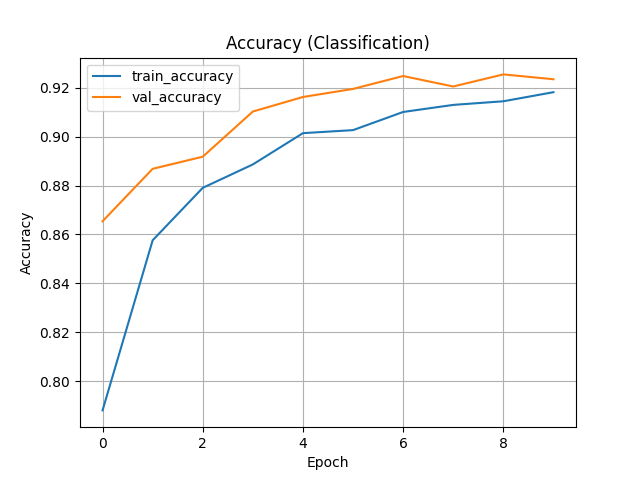
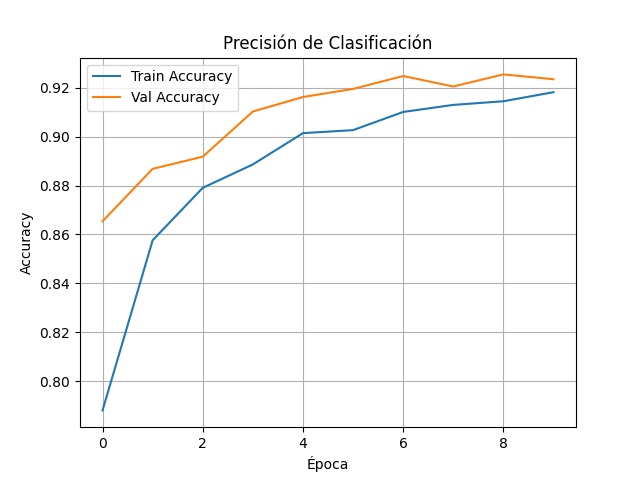
se actualiza graficar resultados

Changed region(s): [[0.1875, 0.0625, 0.6875, 0.2188], [0.4688, 0.9375, 0.5625, 1.0]]

diff --git a/graficarResultados.py b/graficarResultados.py
@@ -1,38 +1,113 @@
 import pandas as pd
 import matplotlib.pyplot as plt
 
-# Leer CSV generado por CSVLogger
+# Leer el CSV
 log_df = pd.read_csv('training_log.csv')
 
-# Graficar precisión de clasificación
+# Convertir timestamps a datetime
+log_df['timestamp'] = pd.to_datetime(log_df['timestamp'])
+
+# Calcular duración por época en segundos
+log_df['epoch_time_sec'] = log_df['timestamp'].diff().dt.total_seconds()
+log_df['epoch_time_sec'].fillna(0, inplace=True)
+
+# ========== MÉTRICAS DEL MODELO ==========
+
+# Accuracy clasificación
 plt.figure()
-plt.plot(log_df['classification_accuracy'], label='train_accuracy')
-plt.plot(log_df['val_classification_accuracy'], label='val_accuracy')
-plt.title('Accuracy (Classification)')
-plt.xlabel('Epoch')
+plt.plot(log_df['classification_accuracy'], label='Train Accuracy')
+plt.plot(log_df['val_classification_accuracy'], label='Val Accuracy')
+plt.title('Precisión de Clasificación')
+plt.xlabel('Época')
 plt.ylabel('Accuracy')
 plt.legend()
 plt.grid(True)
 plt.savefig('accuracy_plot.png')
 
-# Graficar pérdida total
+# Pérdida total
 plt.figure()
-plt.plot(log_df['loss'], label='train_loss')
-plt.plot(log_df['val_loss'], label='val_loss')
-plt.title('Loss (Total)')
-plt.xlabel('Epoch')
+plt.plot(log_df['loss'], label='Train Loss')
+plt.plot(log_df['val_loss'], label='Val Loss')
+plt.title('Pérdida Total')
+plt.xlabel('Época')
 plt.ylabel('Loss')
 plt.legend()
 plt.grid(True)
 plt.savefig('loss_plot.png')
 
-# Graficar pérdida de segmentación
+# Pérdida de segmentación
 plt.figure()
-plt.plot(log_df['segmentation_loss'], label='train_seg_loss')
-plt.plot(log_df['val_segmentation_loss'], label='val_seg_loss')
-plt.title('Loss (Segmentation)')
-plt.xlabel('Epoch')
+plt.plot(log_df['segmentation_loss'], label='Train Segmentation Loss')
+plt.plot(log_df['val_segmentation_loss'], label='Val Segmentation Loss')
+plt.title('Pérdida de Segmentación')
+plt.xlabel('Época')
 plt.ylabel('Loss')
 plt.legend()
 plt.grid(True)
 plt.savefig('segmentation_loss_plot.png')
+
+# ========== MÉTRICAS DEL SISTEMA ==========
+
+# CPU
+plt.figure()
+plt.plot(log_df['cpu_percent'], label='CPU (%)')
+plt.title('Uso de CPU durante el entrenamiento')
+plt.xlabel('Época')
+plt.ylabel('CPU %')
+plt.legend()
+plt.grid(True)
+plt.savefig('cpu_usage.png')
+
+# RAM
+plt.figure()
+plt.plot(log_df['ram_percent'], label='RAM (%)', color='orange')
+plt.title('Uso de RAM durante el entrenamiento')
+plt.xlabel('Época')
+plt.ylabel('RAM %')
+plt.legend()
+plt.grid(True)
+plt.savefig('ram_usage.png')
+
+# GPU
+plt.figure()
+plt.plot(log_df['gpu_percent'], label='GPU (%)', color='green')
+plt.title('Uso de GPU durante el entrenamiento')
+plt.xlabel('Época')
+plt.ylabel('GPU %')
+plt.legend()
+plt.grid(True)
+plt.savefig('gpu_usage.png')
+
+# Memoria de GPU
+plt.figure()
+plt.plot(log_df['gpu_memory_percent'], label='GPU Memory (%)', color='red')
+plt.title('Uso de Memoria de GPU durante el entrenamiento')
+plt.xlabel('Época')
+plt.ylabel('GPU Memory %')
+plt.legend()
+plt.grid(True)
+plt.savefig('gpu_memory_usage.png')
+
+# Tiempo por época 
+log_df['epoch_time_min'] = log_df['epoch_time_sec'] / 60
+
+plt.figure()
+plt.plot(log_df['epoch_time_min'], label='Duración por época (min)', marker='o')
+plt.title('Tiempo de procesamiento por época')
+plt.xlabel('Época')
+plt.ylabel('Minutos')
+plt.legend()
+plt.grid(True)
+plt.savefig('epoch_time_plot.png')
+
+# Imprimir resumen
+print("✅ Gráficas guardadas:")
+print("- accuracy_plot.png")
+print("- loss_plot.png")
+print("- segmentation_loss_plot.png")
+print("- cpu_usage.png")
+print("- ram_usage.png")
+print("- gpu_usage.png")
+print("- gpu_memory_usage.png")
+print("- epoch_time_plot.png")
+print("✅ Archivo CSV actualizado: training_log_con_tiempo.csv")
